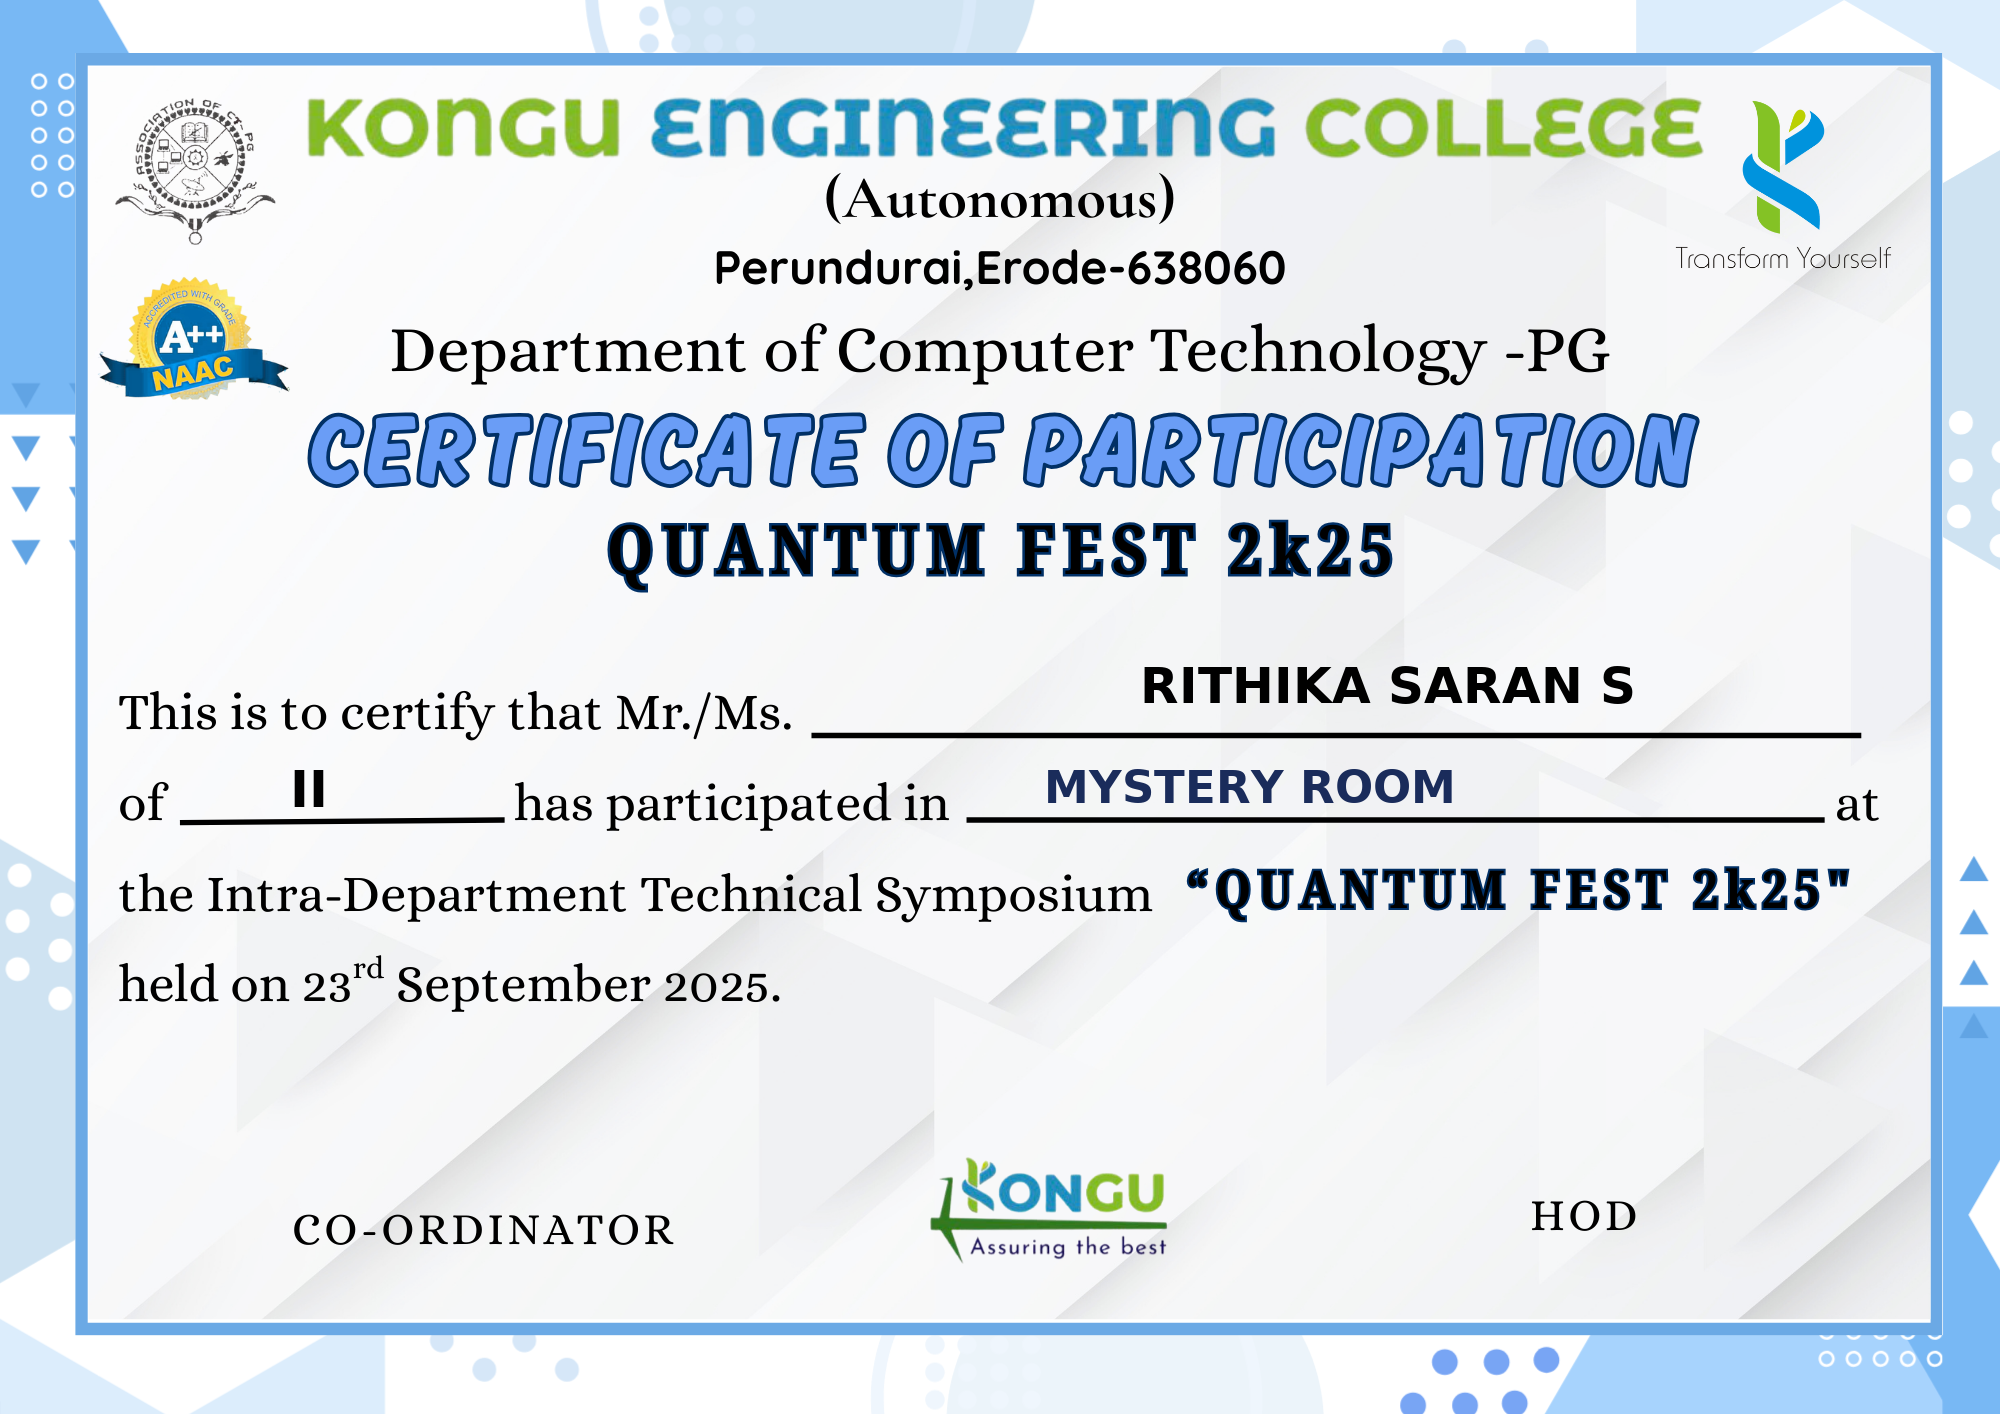
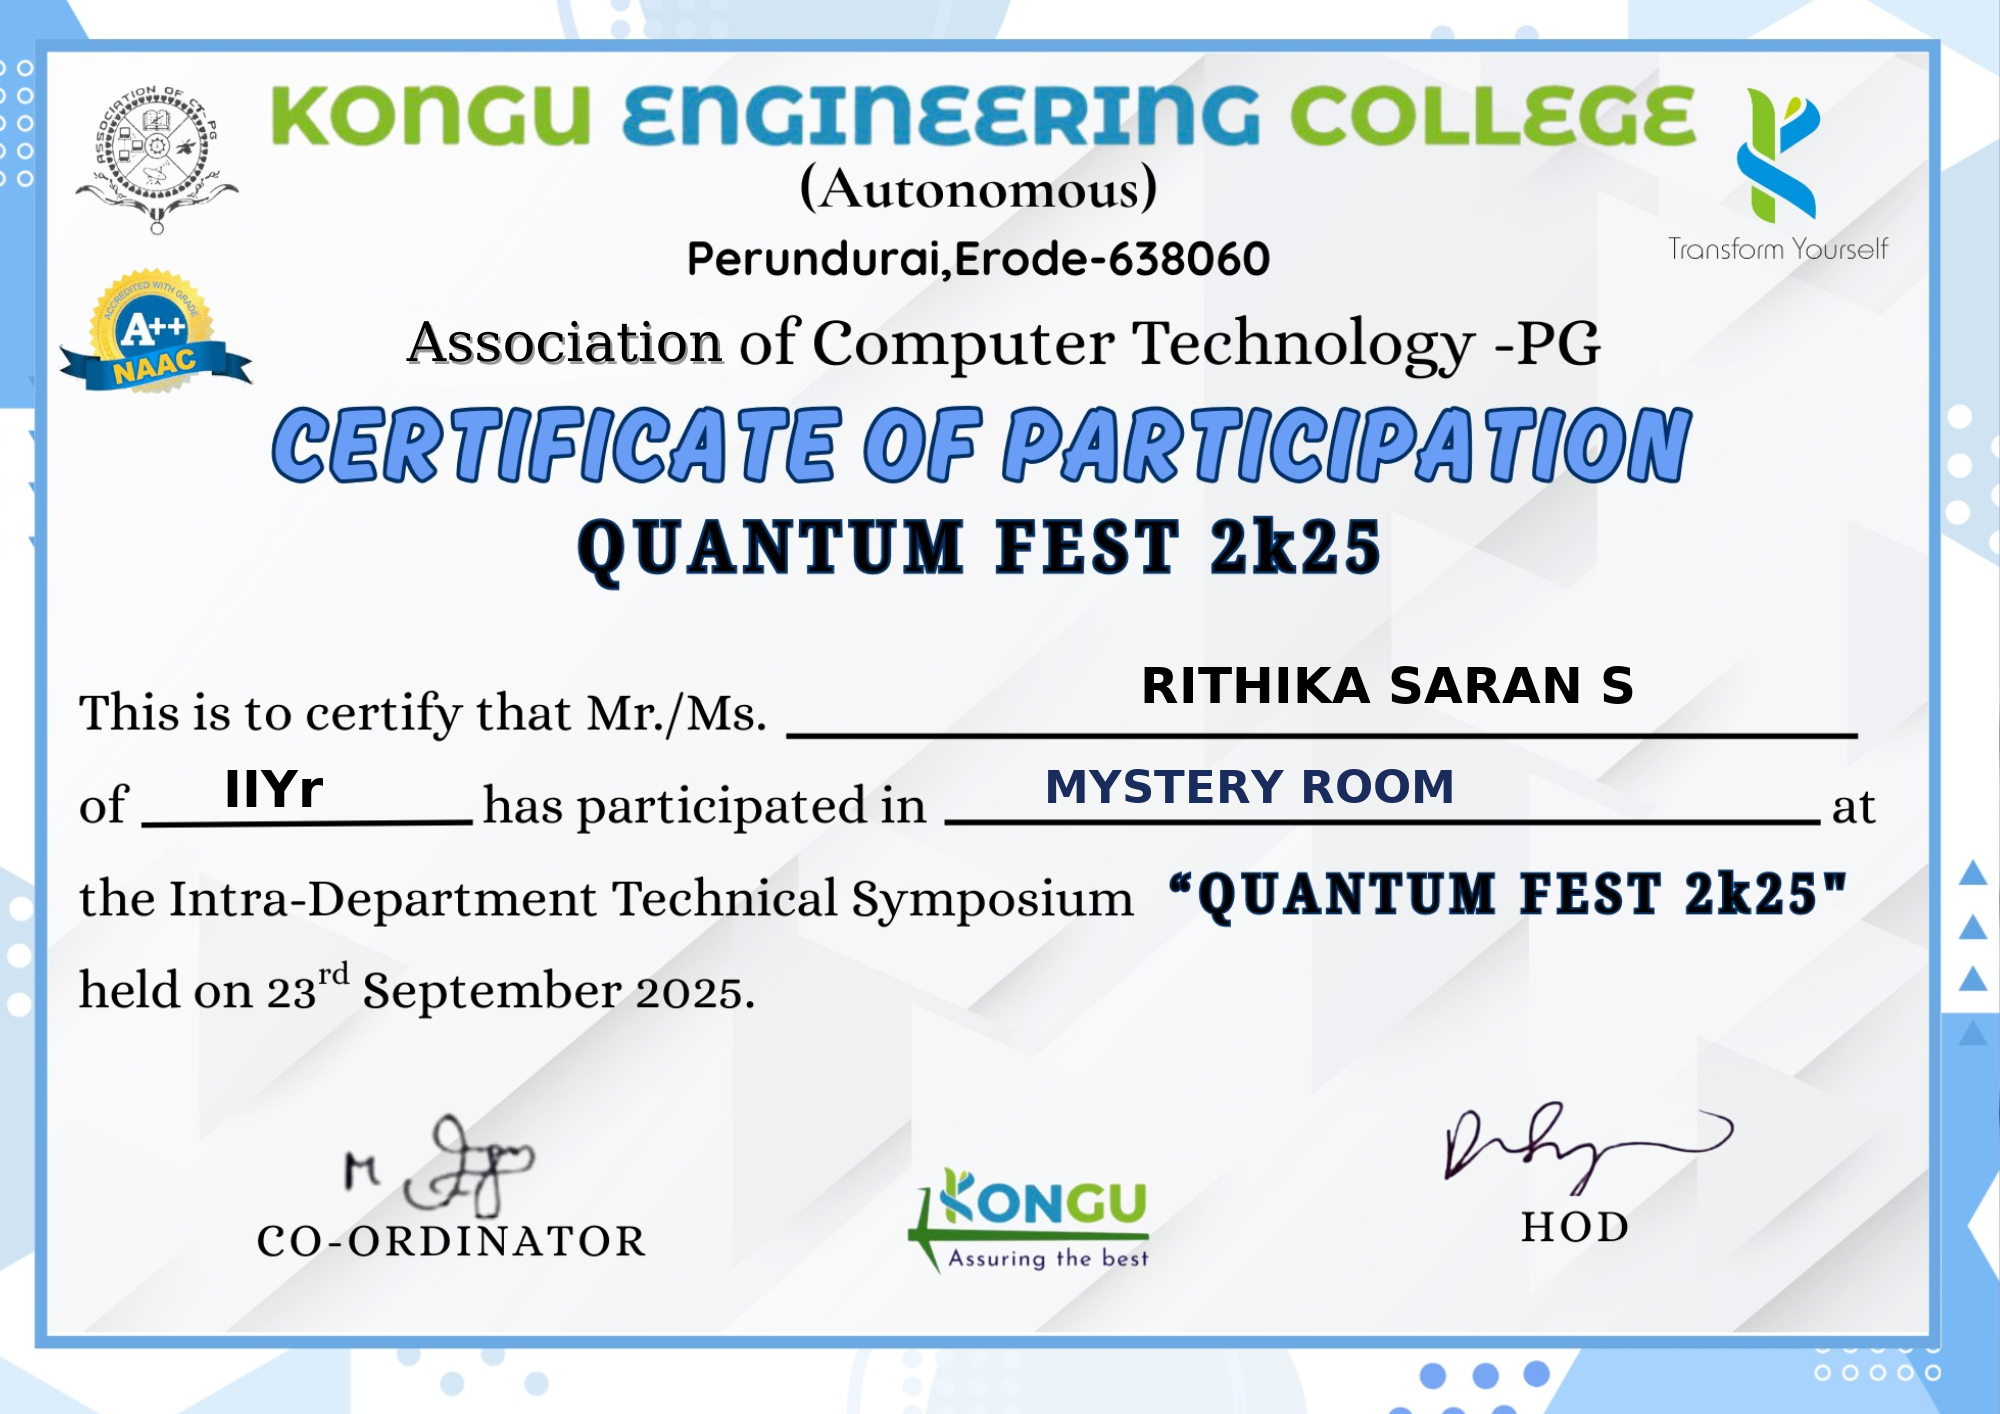
Certificate Design was updated

diff --git a/backend/genCertificate.py b/backend/genCertificate.py
@@ -36,7 +36,7 @@ def generate_certificate(name, roll_no, event , year):
 
     # Text preparation
     name_text = name.upper()
-    year_text = year.upper()
+    year_text = (year.upper() + "Yr")
     event_text = event.upper()
 
     # POSITION COORDINATES (based on certificate layout)
@@ -47,7 +47,7 @@ def generate_certificate(name, roll_no, event , year):
     NAME_Y = 666
     
     # Roll number position - on the second blank line after "of ____"
-    ROLL_X = 290
+    ROLL_X = 223
     ROLL_Y = 770
     
     # Event name position - on the second blank line after "has participated in ____"
